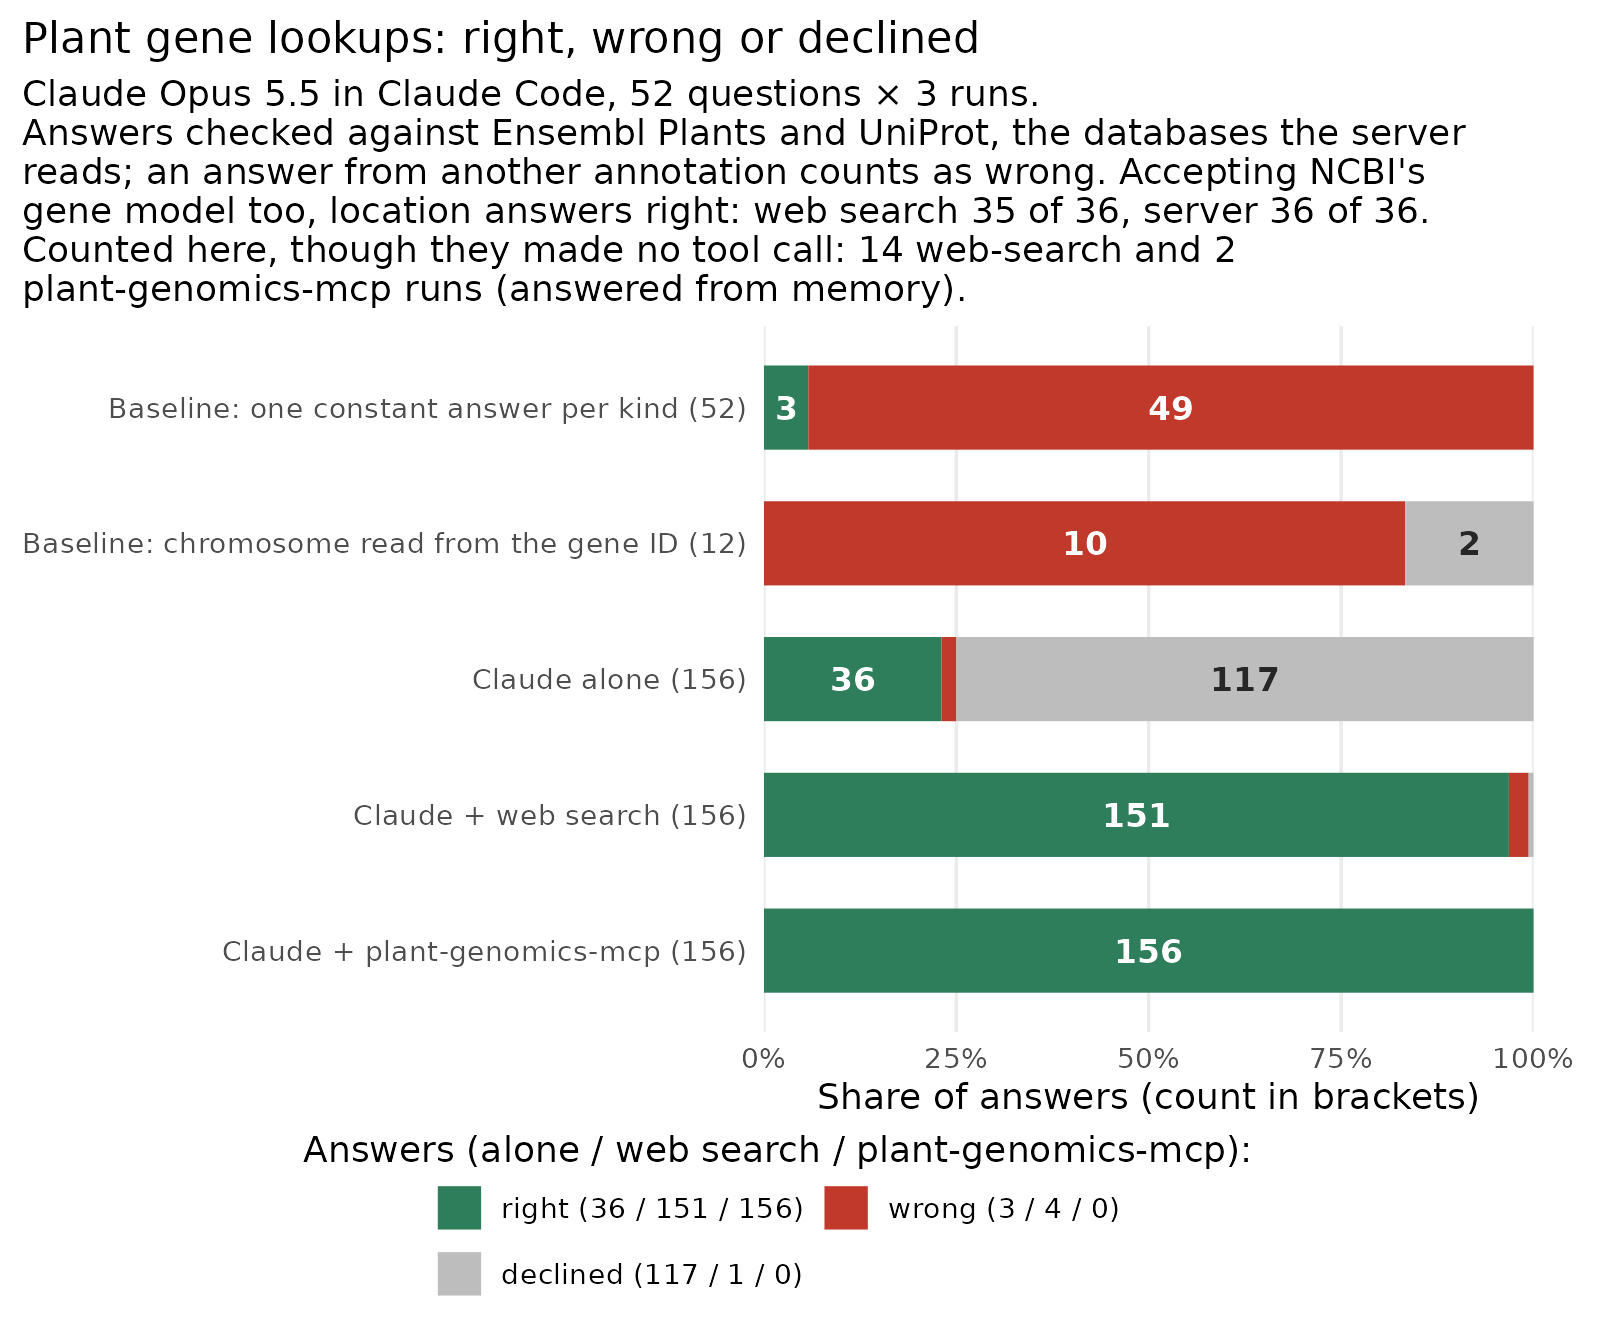
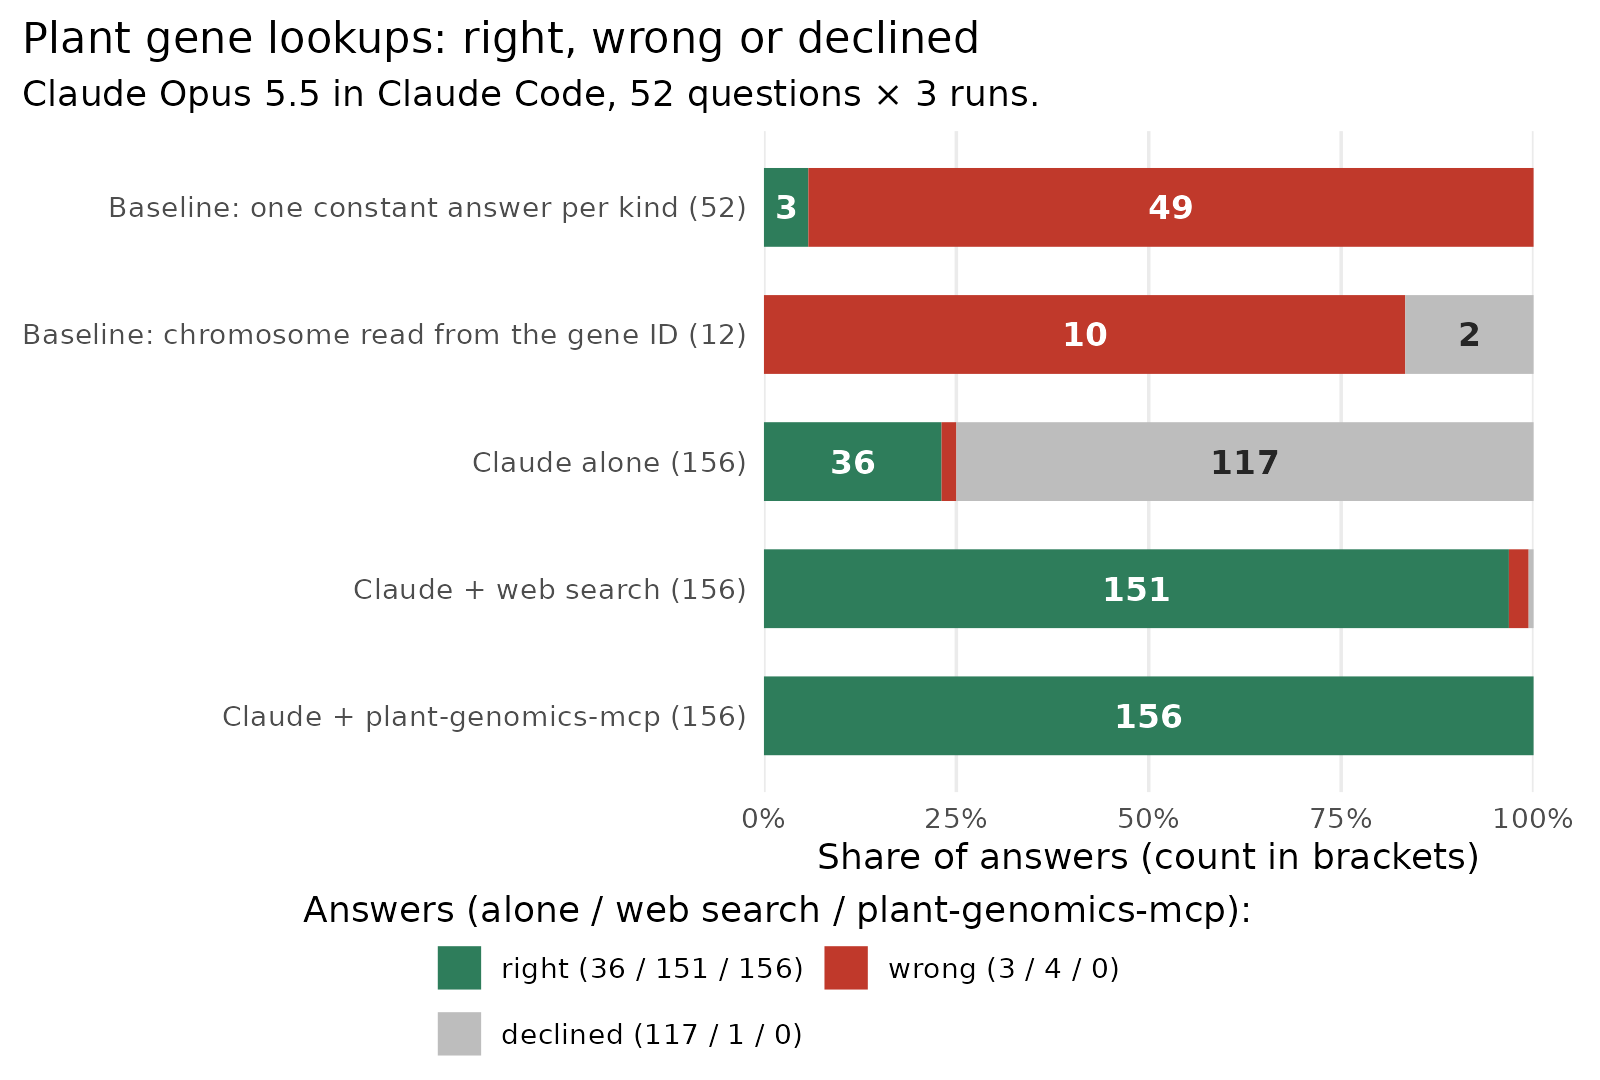
docs(readme): round 2 — honest accuracy line, badges, hidden mcp-name, one-line chart subtitle
- "Does it help?" opens with the win over Claude alone; against web search it
  says accuracy is not measurably better (p = 0.125), only tool calls and time.
- Opener: "plant-genomics-mcp is an MCP server that lets AI agents ...".
- Badges: CI, PyPI, Python and License from shields (pypi/pyversions, pypi/l),
  DOI, Glama; every badge links.
- The mcp-name marker is an HTML comment under the badges; the MCP registry
  section is gone (the registry checks for the string, not its visibility).
- The backend list and the tool breakdown move to docs/reference.md; the
  README keeps "56 tools across 23 backends" and the table.
- agent_qa.png re-rendered from plot.R with a one-line subtitle (8 x 5.4 in,
  was 6.6 in tall). summary.tsv, stats.tsv and the other two figures re-render
  byte-identical; bars, counts and colors unchanged.

Tests: test_readme_tool_count.py now reads the breakdown from
docs/reference.md and fails if the README restates it (4 mutants, all
killed for the stated reason); test_readme_budget.py BUDGET 154 -> 141.

diff --git a/tests/test_readme_tool_count.py b/tests/test_readme_tool_count.py
@@ -2,9 +2,10 @@
 
 #130 added "2 member lists" to one of the README's two breakdowns and not
 the other, which then summed to 51 under a stated 53: a count kept in two
-places is updated in one. The README now states the count and its breakdown
-once each; both are checked against ``server.TOOLS``, and a second statement
-reappearing fails here.
+places is updated in one. The README states the count once; the breakdown
+lives once, in docs/reference.md (moved there 2026-10-18 to keep the front
+page short), which also restates the count beside it. All three are checked
+against ``server.TOOLS``, and a breakdown reappearing in the README fails here.
 """
 
 from __future__ import annotations
@@ -14,9 +15,12 @@ from pathlib import Path
 
 from plant_genomics_mcp import server
 
-README = Path(__file__).resolve().parents[1] / "README.md"
+ROOT = Path(__file__).resolve().parents[1]
+README = ROOT / "README.md"
+REFERENCE = ROOT / "docs" / "reference.md"
 
 STATED = re.compile(r"\*\*(\d+) tools\b")
+REFERENCE_STATED = re.compile(r"The (\d+) tools are\b")
 # "29 single-locus + 1 motif lookup + ... + 5 cross-source synthesis", wrapped
 # across lines.
 FIRST = re.compile(r"(\d+) single-locus")
@@ -33,15 +37,21 @@ def _breakdown_sums(text: str) -> list[int]:
 
 
 def test_every_stated_tool_count_and_breakdown_matches_the_server() -> None:
-    text = README.read_text(encoding="utf-8")
+    readme = README.read_text(encoding="utf-8")
+    reference = REFERENCE.read_text(encoding="utf-8")
     tools = len(server.TOOLS)
 
-    stated = [int(n) for n in STATED.findall(text)]
-    breakdowns = _breakdown_sums(text)
-    # Positive control: the statement and the breakdown are found, so a
+    stated = [int(n) for n in STATED.findall(readme)]
+    reference_stated = [int(n) for n in REFERENCE_STATED.findall(reference)]
+    breakdowns = _breakdown_sums(reference)
+    # Positive control: each statement and the breakdown are found, so a
     # pattern that matches nothing cannot pass by checking nothing.
     assert len(stated) == 1, stated
+    assert len(reference_stated) == 1, reference_stated
     assert len(breakdowns) == 1, breakdowns
+    # The breakdown is kept in one place only.
+    assert _breakdown_sums(readme) == [], "the README restates the tool breakdown"
 
     assert stated == [tools], (stated, tools)
+    assert reference_stated == [tools], (reference_stated, tools)
     assert breakdowns == [tools], (breakdowns, tools)

diff --git a/tests/test_readme_budget.py b/tests/test_readme_budget.py
@@ -4,7 +4,7 @@ The failure mode this guards is not a bug in the server: it is that every
 addition to `examples/` arrives with a paragraph of README to explain it,
 and a reader who opens the repo for the first time pays for all of them.
 `BUDGET` is the line count of `README.md` after it was cut to the essentials
-(347 → 252 lines, then 154 once the reference tables moved to
+(347 → 252 lines, then 141 once the reference tables moved to
 docs/reference.md). Growing the README past it is a deliberate act that has
 to edit this number.
 
@@ -34,8 +34,9 @@ README = Path(__file__).resolve().parents[1] / "README.md"
 # raises (ARF link, tool-matrix rows, the benchmark section) are in git log.
 # 252 once the screenshots went to one line each, with the chart on top.
 # 154 after the 2026-10-18 polish moved the full tool matrix, resources,
-# env vars and error model to docs/reference.md.
-BUDGET = 154
+# env vars and error model to docs/reference.md; 141 once the backend list,
+# tool breakdown and registry section left it (round 2).
+BUDGET = 141
 
 TITLE_LINE = "# plant-genomics-mcp"
 

diff --git a/README.md b/README.md
@@ -1,22 +1,23 @@
 # plant-genomics-mcp
 
-An MCP server for plant gene lookup. It lets Claude, or any MCP client, query 23
-free public databases about a locus, from Ensembl Plants and UniProt to KEGG,
-STRING and AlphaFold, with curated coverage of 12 plants.
+plant-genomics-mcp is an MCP server that lets AI agents look up plant genes in 23
+free public databases, from Ensembl Plants and UniProt to KEGG, STRING and
+AlphaFold, with curated coverage of 12 plants.
 
-[![CI](https://github.com/musharna/plant-genomics-mcp/actions/workflows/test.yml/badge.svg)](https://github.com/musharna/plant-genomics-mcp/actions/workflows/test.yml)
+[![CI](https://img.shields.io/github/actions/workflow/status/musharna/plant-genomics-mcp/test.yml?branch=main&label=CI)](https://github.com/musharna/plant-genomics-mcp/actions/workflows/test.yml)
 [![PyPI](https://img.shields.io/pypi/v/plant-genomics-mcp)](https://pypi.org/project/plant-genomics-mcp/)
-![Python](https://img.shields.io/badge/python-3.11%2B-blue)
-![License](https://img.shields.io/badge/license-MIT-green)
+[![Python](https://img.shields.io/pypi/pyversions/plant-genomics-mcp)](https://pypi.org/project/plant-genomics-mcp/)
+[![License](https://img.shields.io/pypi/l/plant-genomics-mcp)](https://github.com/musharna/plant-genomics-mcp/blob/main/LICENSE)
 [![DOI](https://zenodo.org/badge/DOI/10.5281/zenodo.21636352.svg)](https://doi.org/10.5281/zenodo.21636352)
 [![Glama](https://glama.ai/mcp/servers/musharna/plant-genomics-mcp/badges/score.svg)](https://glama.ai/mcp/servers/musharna/plant-genomics-mcp)
+<!-- mcp-name: io.github.musharna/plant-genomics-mcp -->
 
 <p align="center"><img src="https://raw.githubusercontent.com/musharna/plant-genomics-mcp/main/examples/assets/cc-answer.png" alt="Claude Code (Opus 5.5) with plant-genomics-mcp 1.29.1 answering a prompt about Arabidopsis NAC001 (AT1G01010): the Ensembl Plants record (Chr 1:3,631-5,899, protein_coding) and UniProtKB entry Q0WV96 (NAC1_ARATH, reviewed, 429 aa). Real output, trimmed" width="780"></p>
 
 ## Does it help?
 
-Yes. Alone, Claude declined most of our plant gene lookups; with this server it
-got every one right, using fewer tool calls and less time than with web search.
+Yes, over Claude alone, which declined most lookups. Against web search it is not
+measurably more accurate, but it needs fewer tool calls and less time.
 
 <p align="center"><img src="https://raw.githubusercontent.com/musharna/plant-genomics-mcp/main/benchmarks/agent_qa/agent_qa.png" alt="Stacked bar chart of right, wrong and declined answers, 156 per setup. Claude alone: 36 right, 3 wrong, 117 declined. Claude with web search: 151 right, 4 wrong, 1 declined. Claude with plant-genomics-mcp: 156 right. Two no-model baselines: one constant answer per kind of question, 3 of 52 right; chromosome read from the gene ID, 0 of 12 right" width="780"></p>
 
@@ -84,13 +85,7 @@ Per-tool walkthroughs, including the one-call gene dossier
 
 ## Tools
 
-**56 tools across 23 backends**: Ensembl Plants, Phytozome BioMart, UniProtKB,
-Europe PMC, QuickGO, Planteome, PlantCyc/PMN, g:Profiler, AlphaFold DB, PDBe,
-InterPro, JASPAR, PANTHER, OrthoDB, AraGWAS, 1001 Genomes, NCBI BLAST, Gramene,
-KEGG, STRING-DB, ATTED-II, ThaleMine and BAR. That is 29 single-locus + 1 motif
-lookup + 1 region query + 1 assembly listing + 1 release report + 1 variant
-annotator + 1 gene-set enrichment + 1 BLAST search + 2 member lists + 13
-parallel-batch + 5 cross-source synthesis.
+**56 tools across 23 backends**:
 
 | Area | Tools |
 | --- | --- |
@@ -108,8 +103,9 @@ parallel-batch + 5 cross-source synthesis.
 | Batch and synthesis | `batch_*` (12), `batch_locus_call`, `*_synth` (3), `consensus_homologs`, `gene_report` |
 
 Most take a locus (e.g. `AT1G01010`) and an optional `organism=`. Every tool is
-marked read-only. What each tool does, the MCP resources and prompts, all
-environment variables and the error model: [`docs/reference.md`](docs/reference.md).
+marked read-only. What each tool does, the list of backends, the MCP resources
+and prompts, all environment variables and the error model:
+[`docs/reference.md`](docs/reference.md).
 
 ## Configuration
 
@@ -137,15 +133,6 @@ stdio smoke on Python 3.11–3.14 with the network blocked. A weekly job checks
 27 loci against a frozen snapshot and pages on drift
 ([`docs/benchmarking.md`](docs/benchmarking.md)). Setup: [CONTRIBUTING.md](CONTRIBUTING.md#dev-setup).
 Release notes: [`CHANGELOG.md`](CHANGELOG.md).
-
-## MCP registry
-
-Listed in the [official MCP registry](https://registry.modelcontextprotocol.io);
-`mcp-publisher` verifies ownership from this line:
-
-```
-mcp-name: io.github.musharna/plant-genomics-mcp
-```
 
 ## License
 

diff --git a/docs/reference.md b/docs/reference.md
@@ -5,6 +5,14 @@ error model for [plant-genomics-mcp](../README.md).
 
 ## Tools
 
+The 23 backends: Ensembl Plants, Phytozome BioMart, UniProtKB, Europe PMC,
+QuickGO, Planteome, PlantCyc/PMN, g:Profiler, AlphaFold DB, PDBe, InterPro,
+JASPAR, PANTHER, OrthoDB, AraGWAS, 1001 Genomes, NCBI BLAST, Gramene, KEGG,
+STRING-DB, ATTED-II, ThaleMine and BAR. The 56 tools are 29 single-locus + 1
+motif lookup + 1 region query + 1 assembly listing + 1 release report + 1
+variant annotator + 1 gene-set enrichment + 1 BLAST search + 2 member lists +
+13 parallel-batch + 5 cross-source synthesis.
+
 Most take a locus (e.g. `AT1G01010`) and an optional `organism=`: a slug,
 scientific or common name, or NCBI taxid (the 12-plant coverage matrix is the
 `pgmcp://organisms/coverage` resource). Every tool is marked read-only and
